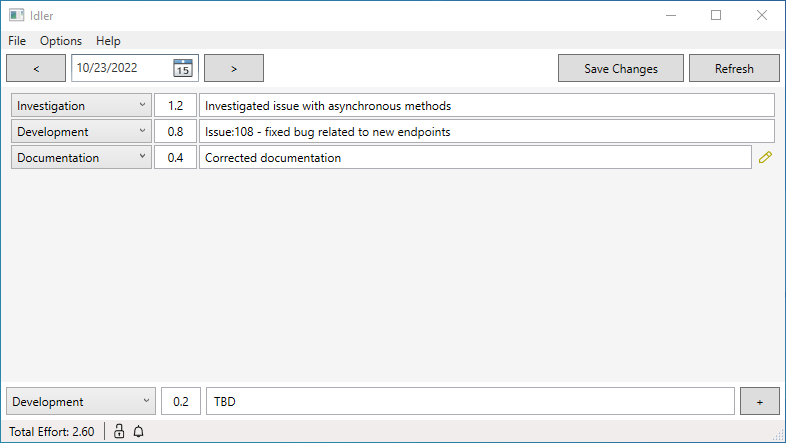
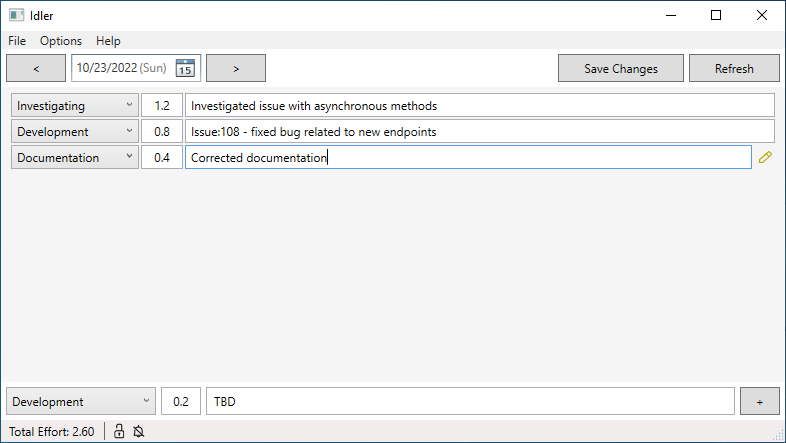
Display day of the week within Date Picker (#77)

diff --git a/src/Idler/MainWindow.xaml b/src/Idler/MainWindow.xaml
@@ -30,9 +30,33 @@
                 </Setter>
             </Style.Setters>
         </Style>
-
         <Style x:Key="CalendarWithHighlightedWorkDays" TargetType="{x:Type Calendar}" BasedOn="{StaticResource {x:Type Calendar}}">
             <Setter Property="CalendarDayButtonStyle" Value="{StaticResource HighlightedCalendarDayButtonStyle}" />
+        </Style>
+        <Style x:Key="DatePickerWithDayOfTheWeek" TargetType="{x:Type DatePicker}">
+            <Style.Resources>
+                <Style TargetType="{x:Type DatePickerTextBox}">
+                    <Style.Setters>
+                        <Setter Property="Template">
+                            <Setter.Value>
+                                <ControlTemplate>
+                                    <StackPanel Orientation="Horizontal">
+                                        <ScrollViewer x:Name="PART_ContentHost"
+                                                      HorizontalContentAlignment="{TemplateBinding HorizontalContentAlignment}"
+                                                      Margin="0"
+                                                      VerticalContentAlignment="{TemplateBinding VerticalContentAlignment}" />
+                                        <TextBlock Foreground="Gray"
+                                                   HorizontalAlignment="{TemplateBinding HorizontalContentAlignment}" 
+                                                   Margin="0"
+                                                   VerticalAlignment="{TemplateBinding VerticalContentAlignment}"
+                                                   Text="{Binding Path=SelectedDate, StringFormat='(ddd)', RelativeSource={RelativeSource AncestorType={x:Type DatePicker}}}" />
+                                    </StackPanel>
+                                </ControlTemplate>
+                            </Setter.Value>
+                        </Setter>
+                    </Style.Setters>
+                </Style>
+            </Style.Resources>
         </Style>
     </Window.Resources>
     <Window.InputBindings>
@@ -111,10 +135,12 @@
                             Command="{Binding SaveShiftCommand}" />
                     <DatePicker Margin="5,0"
                                 DockPanel.Dock="Left"
+                                MinWidth="130"
                                 SelectedDate="{Binding SelectedDate}" 
                                 DisplayDate="{Binding DisplayDate}"
                                 VerticalContentAlignment="Center"
-                                CalendarStyle="{StaticResource CalendarWithHighlightedWorkDays}" />
+                                CalendarStyle="{StaticResource CalendarWithHighlightedWorkDays}"
+                                Style="{StaticResource DatePickerWithDayOfTheWeek}" />
                     <Button x:Name="btnNextShift"
                             Padding="25,5"
                             Margin="0,0,25,0"
